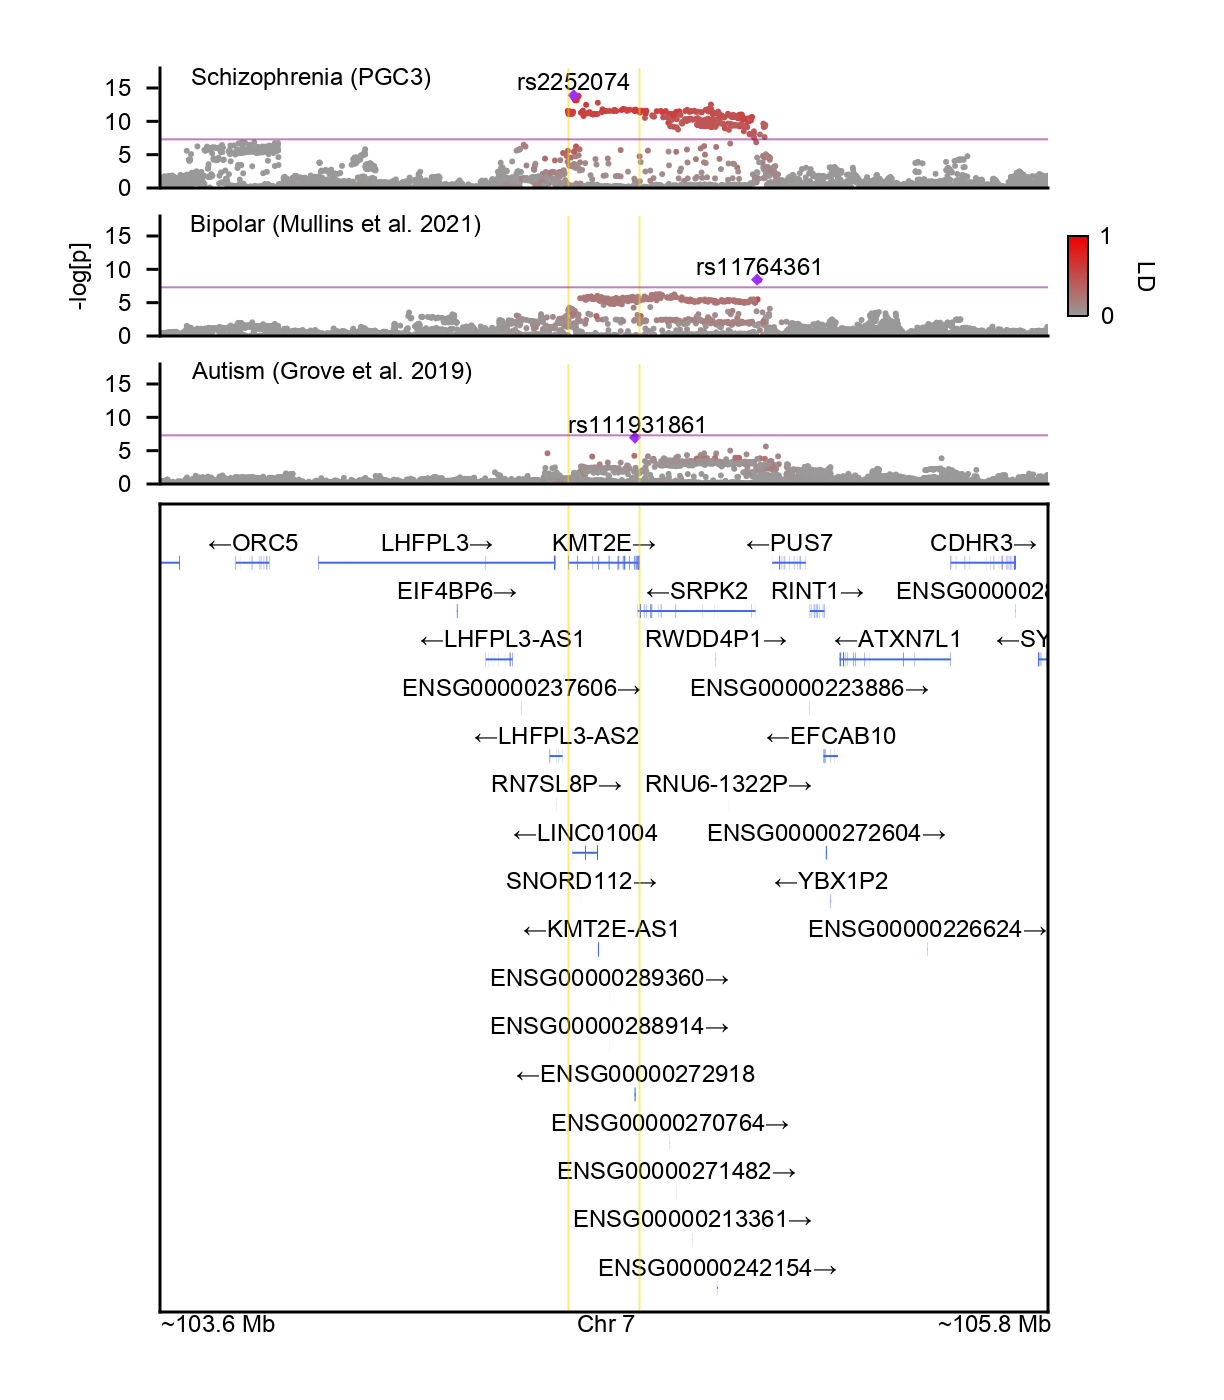
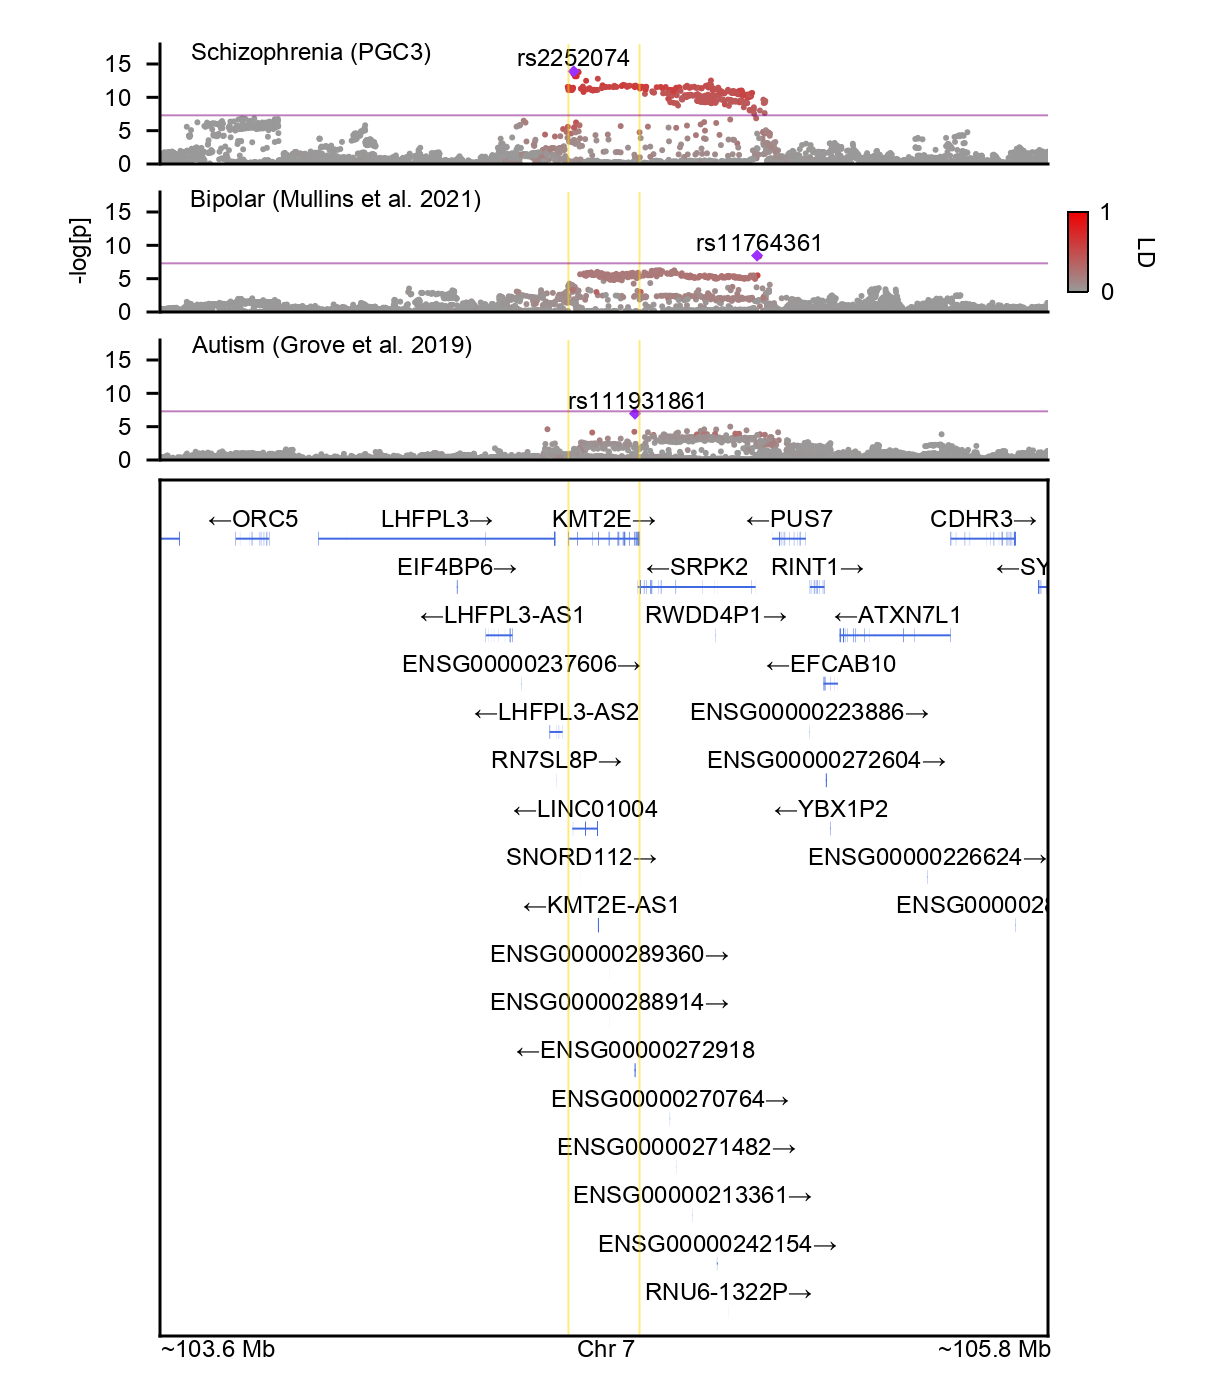
update plotting genes

Changed region(s): [[0.0621, 0.0307, 0.9624, 0.9829], [0.7451, 0.9214, 0.8693, 0.9829], [0.1242, 0.9214, 0.2484, 0.9829]]

diff --git a/README.md b/README.md
@@ -294,6 +294,12 @@ end
 <p align="center"><img width="80%" style="border-radius: 5px;" src="figs/QQ.png"></p>
 
 ## Further examples
+```julia
+# Visualize signifiance of association and LD jointly
+```
 <p align="center"><img width="80%" style="border-radius: 5px;" src="figs/effect-LD.png"></p>
 
+```julia
+# Visualize colocalization of GWAS signals
+```
 <p align="center"><img width="80%" style="border-radius: 5px;" src="figs/coloc.png"></p>
